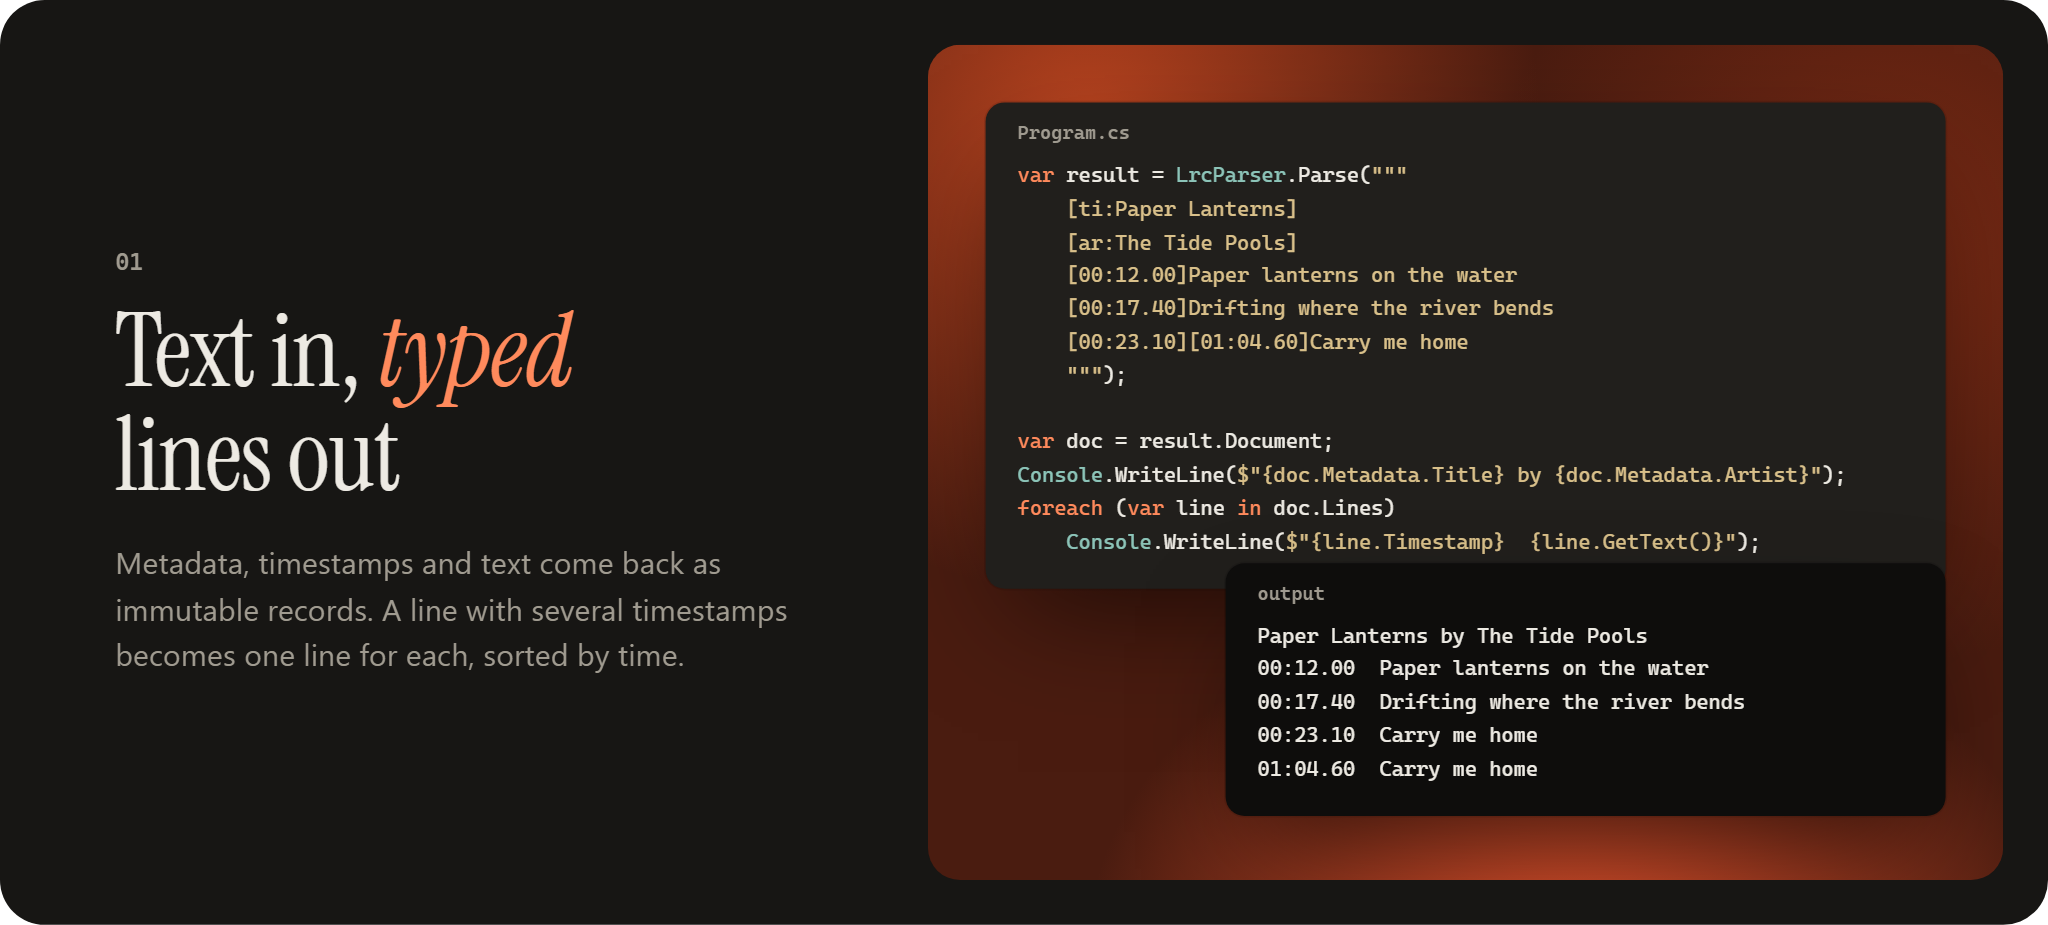
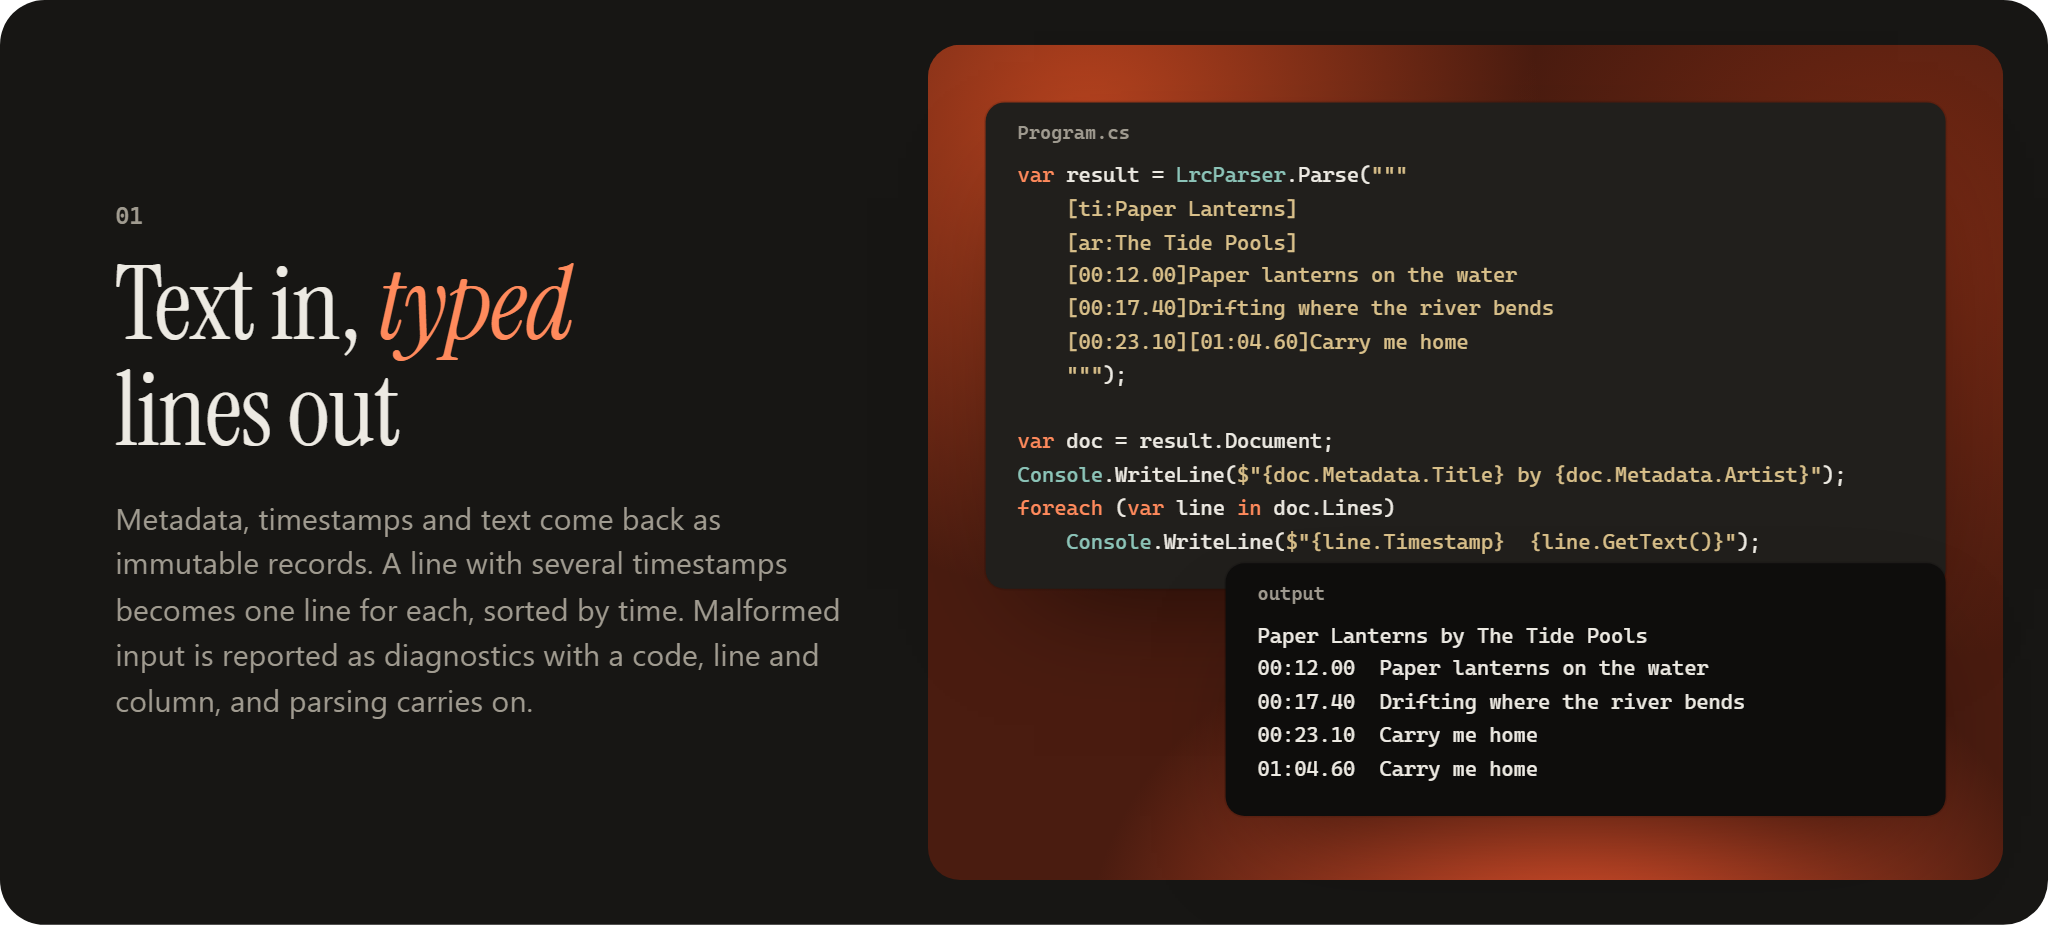
docs: build the README panels from the media branch
Panel 01 now carries the site's full feature text, and the round-trip
panel is redrawn by the same build as the others.

Changed region(s): [[0.0312, 0.2724, 0.3438, 0.5751], [0.0625, 0.6054, 0.4062, 0.7265], [0.0625, 0.7568, 0.25, 0.787]]

diff --git a/AGENTS.md b/AGENTS.md
@@ -68,7 +68,8 @@ A .NET library that parses, edits and writes `.lrc` lyrics files, kept Native AO
 - Bump commit `chore: release vX.Y.Z`; tag `vX.Y.Z`.
 - Title `ModernLrc X.Y.Z`.
 - Notes: banner image first, then `### New`, `### Improved`, `### Fixed` (only those that apply). One line per change, written for users; no internals, dependency lists or test counts. End with the install command, the NuGet link and the full changelog link.
-- Banner: `node banner.cjs <version> "<highlight>"` on the orphan `media` branch writes `releases/vX.Y.Z.png`; reference its raw URL.
+- Banner: generated and hosted on the orphan `media` branch; reference its raw URL.
+- Generated images (banners, README panels, package icon) are built from the `media` branch; its README has the steps. Re-run its capture after a change to the library or a snippet.
 - Package registry: nuget.org, published by CI on the tag push; see Library.
 
 ## Agents
